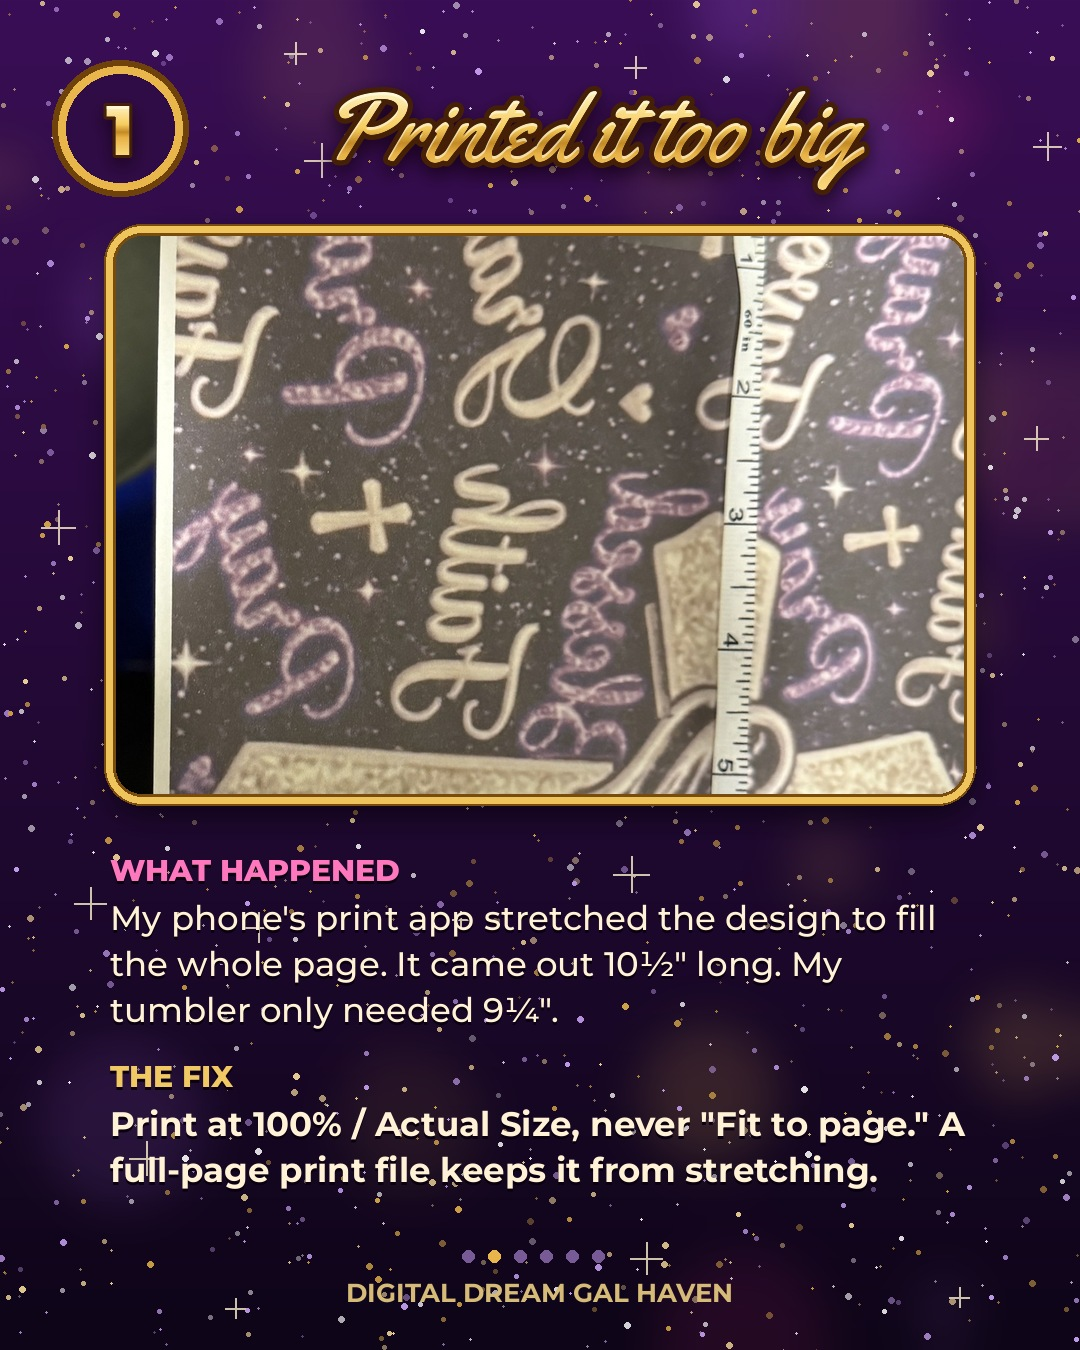
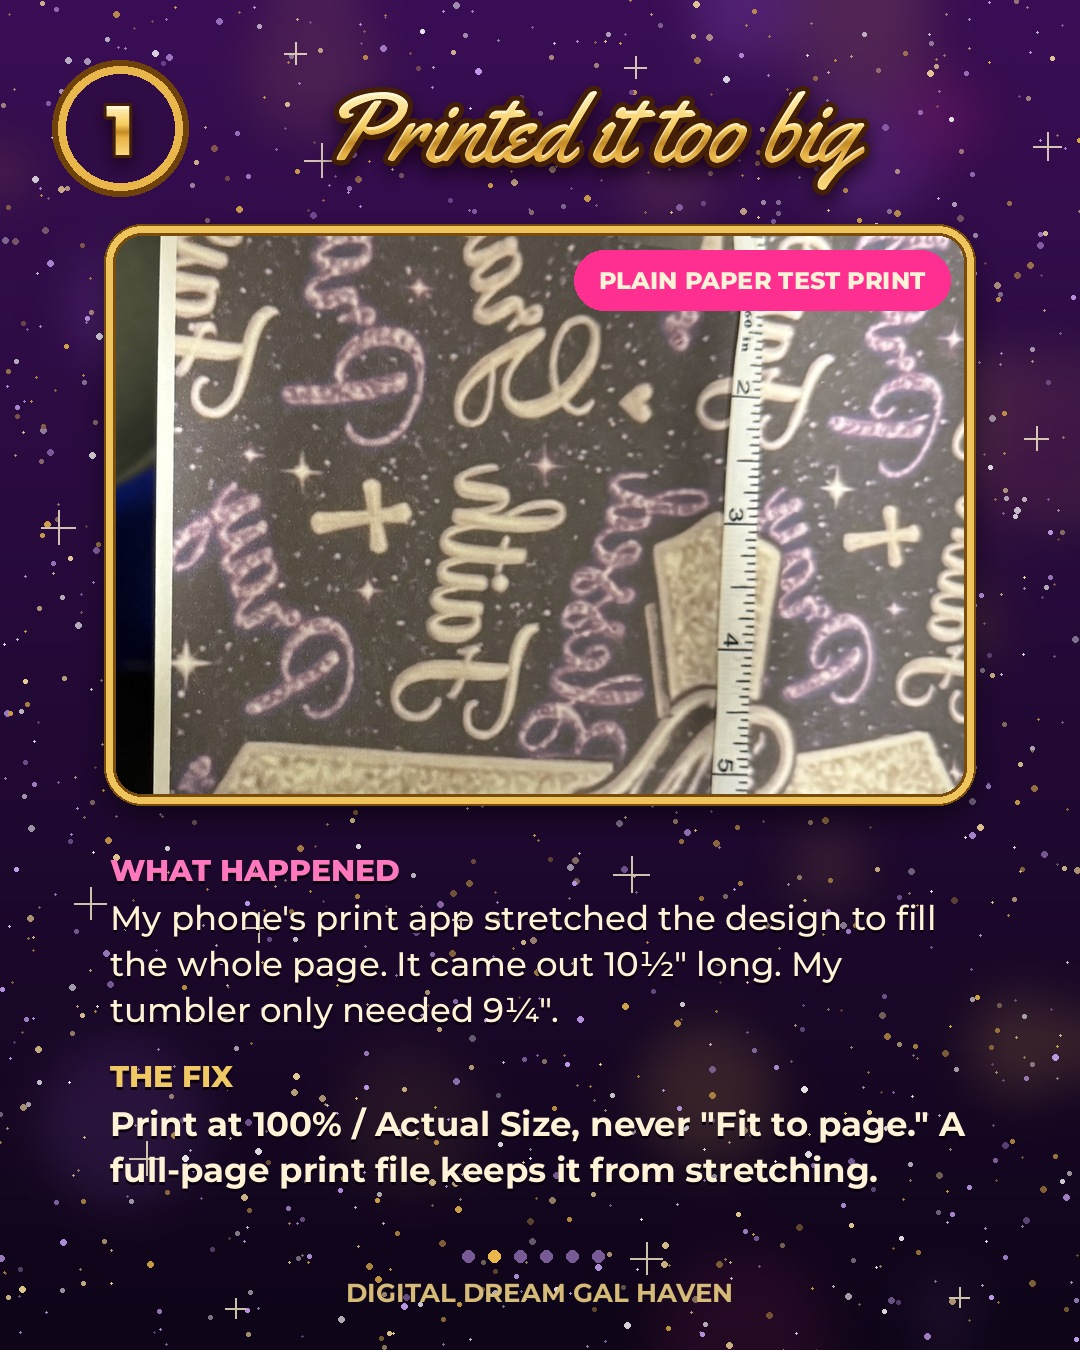
Carousel slide 2: label photo as plain paper test print
Claude-Session: https://claude.ai/code/session_013Lmse4UUbVMfZjWLLcf5XL

Changed region(s): [[0.5194, 0.1867, 0.8861, 0.2489]]

diff --git a/designs/carousels/printing_mistakes.py b/designs/carousels/printing_mistakes.py
@@ -129,11 +129,16 @@ def footer(img, i, total=6):
         c = (232, 182, 75) if k == i else (120, 90, 150)
         d.ellipse((sx+k*26, H-100, sx+k*26+12, H-88), fill=c)
 
-def tip_slide(i, n, title, photo_path, crop, problem, fix, rotate=0):
+def tip_slide(i, n, title, photo_path, crop, problem, fix, rotate=0, tag=None):
     img = glitter_bg(100 + i)
     badge(img, n)
     gold_text(img, (W//2 + 50, 128), title, font(SCRIPT, 96))
     photo(img, photo_path, (110, 230, 970, 800), crop=crop, rotate=rotate)
+    if tag:
+        d = ImageDraw.Draw(img); tf = font(BOLD, 24)
+        tw = d.textlength(tag, font=tf) + 50
+        d.rounded_rectangle((950 - tw, 250, 950, 310), 30, fill=(255, 47, 146))
+        text(img, (950 - tw/2, 280), tag, tf, shadow=False)
     y = 870
     text(img, (110, y), 'WHAT HAPPENED', font(BOLD, 30), fill=(255, 120, 190), anchor='lm')
     y += 48
@@ -163,7 +168,8 @@ slides.append(img)
 # 2-4. Mistakes
 slides.append(tip_slide(1, 1, 'Printed it too big', PRINT_PHOTO, (0.5, 0.42),
     'My phone\'s print app stretched the design to fill the whole page. It came out 10½" long. My tumbler only needed 9¼".',
-    'Print at 100% / Actual Size, never "Fit to page." A full-page print file keeps it from stretching.'))
+    'Print at 100% / Actual Size, never "Fit to page." A full-page print file keeps it from stretching.',
+    tag='PLAIN PAPER TEST PRINT'))
 slides.append(tip_slide(2, 2, 'Didn\'t measure first', f'{UP}/ead9b4c2-image.jpg', (0.5, 0.5),
     '"20 oz skinny" tumblers aren\'t all the same size. Every brand is a little different.',
     'Measure around the middle and the height of the straight part. Mine: 9¼" around × 8" tall.'))
